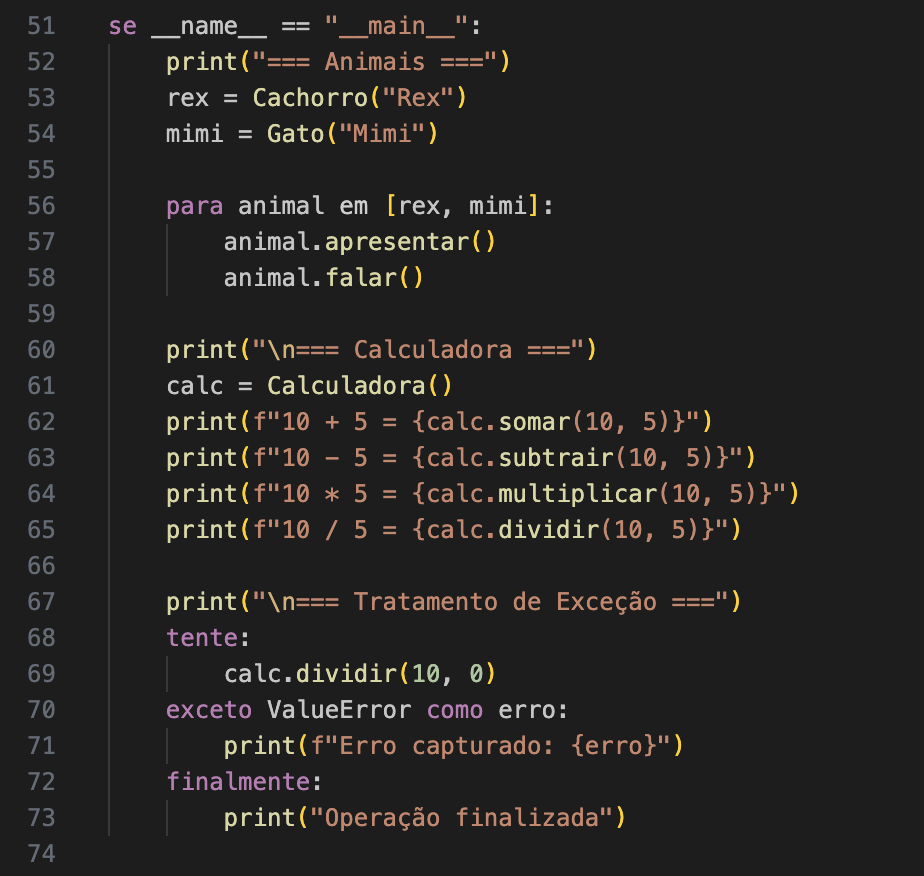
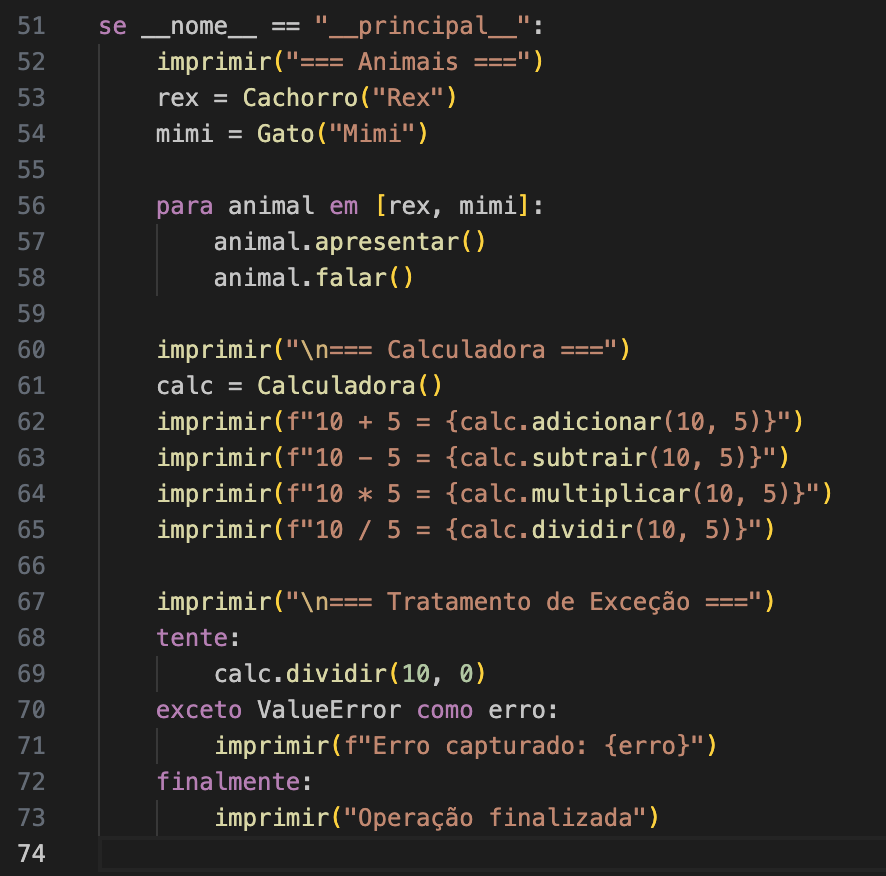
update images and readme

diff --git a/README.md b/README.md
@@ -30,7 +30,6 @@ uv sync
 
 ![Sintaxe Básica](https://raw.githubusercontent.com/ivancrneto/pitao/main/vscode-pitao/assets/pitao1.png)
 ![Controle de Fluxo](https://raw.githubusercontent.com/ivancrneto/pitao/main/vscode-pitao/assets/pitao2.png)
-![Classes e Funções](https://raw.githubusercontent.com/ivancrneto/pitao/main/vscode-pitao/assets/pitao3.png)
 
 ---
 

diff --git a/vscode-pitao/README.md b/vscode-pitao/README.md
@@ -14,7 +14,6 @@ Realce de sintaxe para **Pitão** - Python com palavras-chave em Português.
 
 ![Sintaxe Básica](assets/pitao1.png)
 ![Controle de Fluxo](assets/pitao2.png)
-![Classes e Funções](assets/pitao3.png)
 
 ## Palavras-chave
 